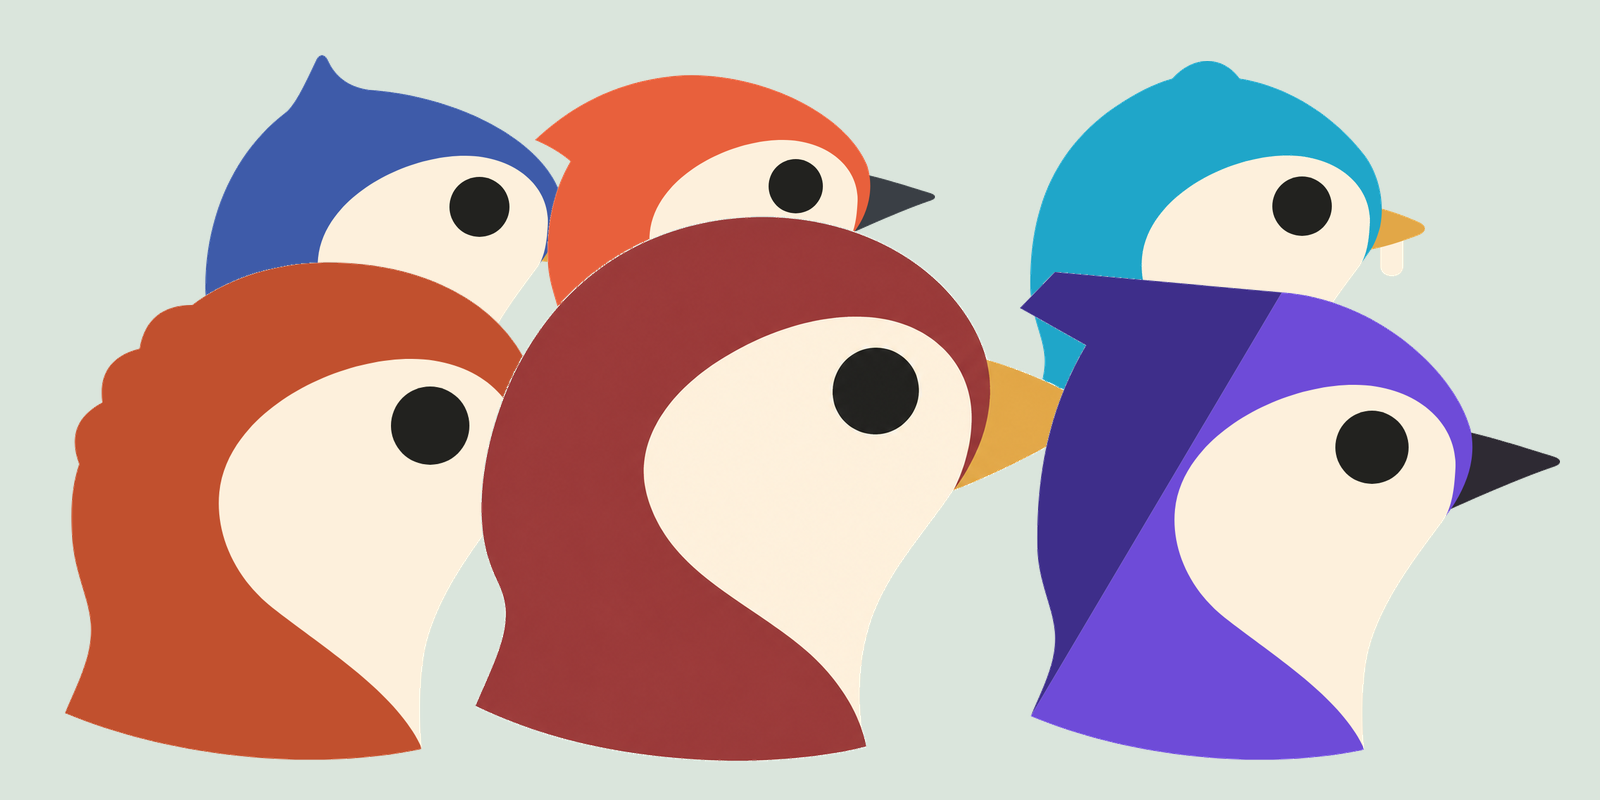
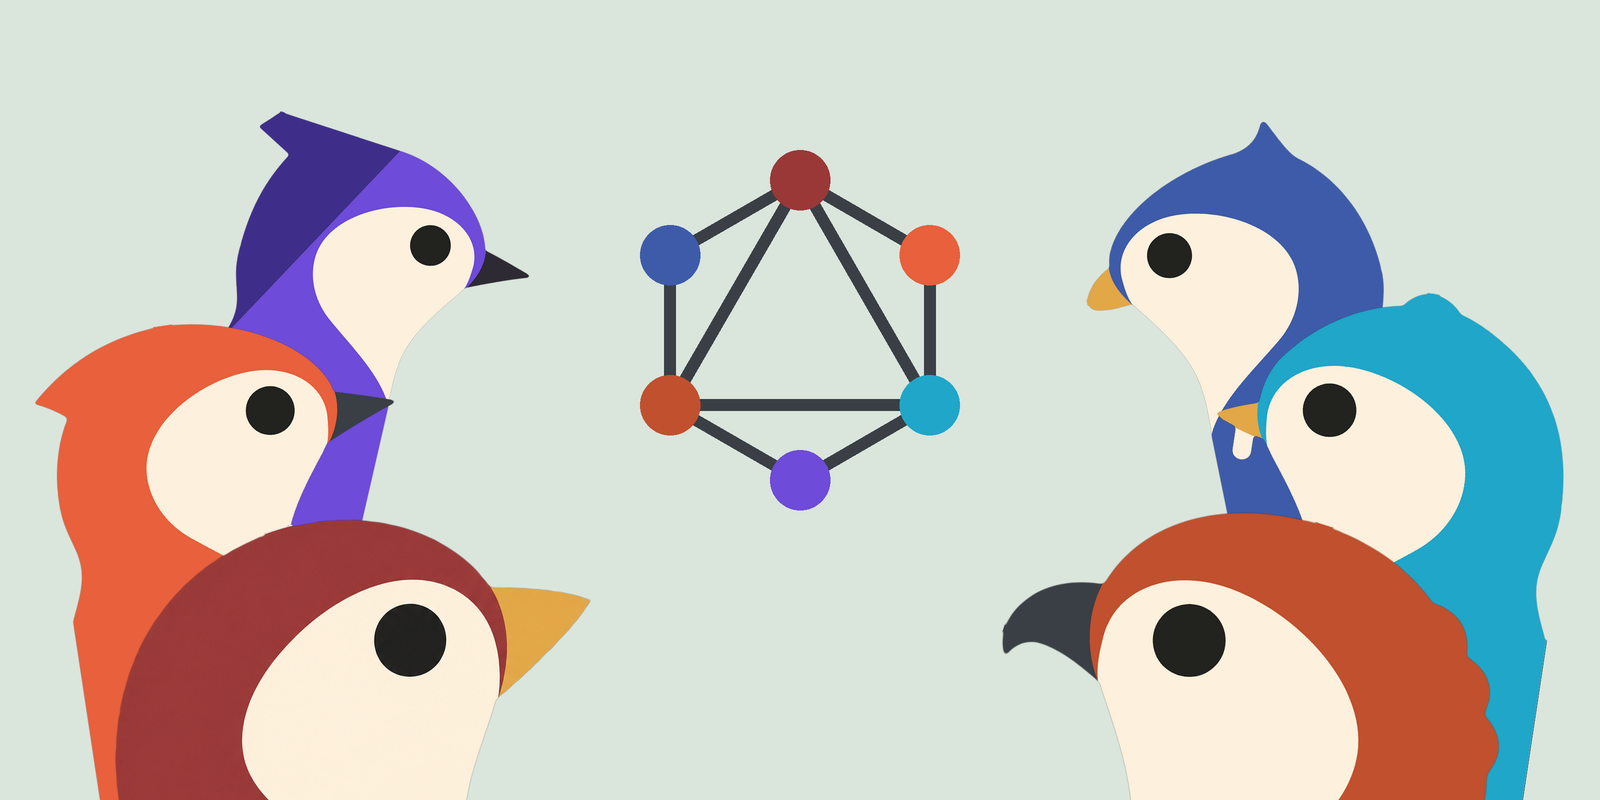
docs: graph 패밀리 그룹 이미지를 원형 응시 구도로 교체
새 여섯 마리가 좌우 3:3으로 의존성 그래프를 마주 보는 구도로
바꿔 '그래프를 쳐다보는' 제품 정체성을 드러낸다.

Generated with [Devin](https://devin.ai)

diff --git a/README.md b/README.md
@@ -74,7 +74,7 @@
 > Static analysis tools that turn codebases — and database schemas — into a **queryable dependency graph** — dead code, cycles, impact analysis, layering rules, and architecture metrics as queries over one graph.
 
 <div align="center">
-<img src="graph-family.png" alt="The *graph tool family bird mascots" width="720" />
+<img src="graph-family.png" alt="The *graph tool family bird mascots gathered around a dependency graph" width="720" />
 </div>
 
 | Tool | Platform | Description |
